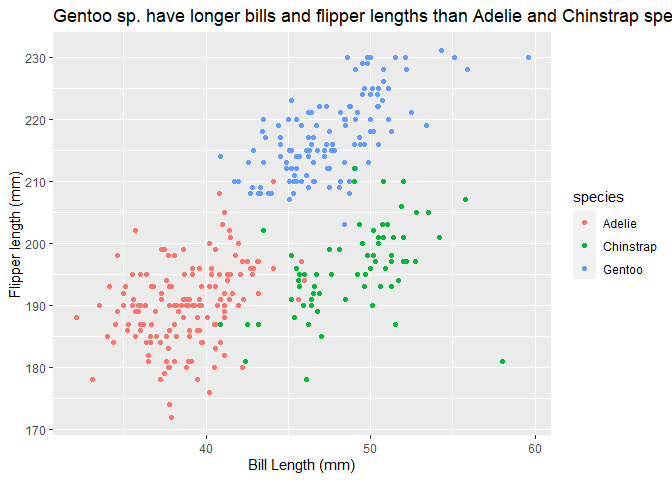
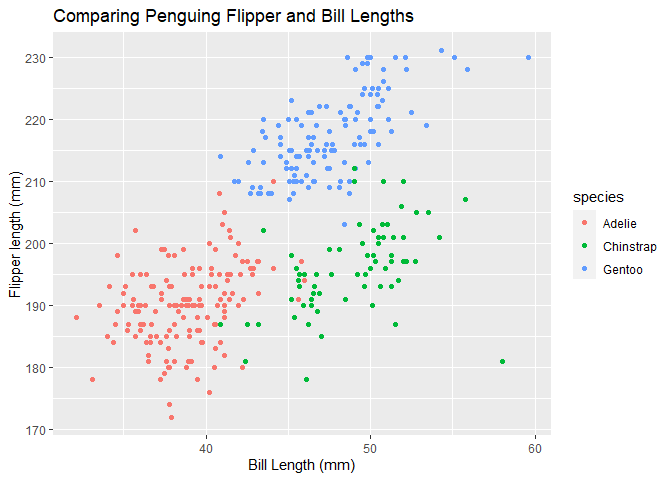
shortened title for scatterplot & added formatting and explications for each mean of the original variable. Additionally tried to coerce and explain the variables.

Changed region(s): [[0.0938, 0.0, 1.0, 0.0625]]

diff --git a/p8105_hw1_JSM2182.md b/p8105_hw1_JSM2182.md
@@ -37,7 +37,7 @@ sex, and year.
 The mean flipper length is 200.9152047 mm
 
 ``` r
-ggplot(penguins, aes(x = bill_length_mm, y = flipper_length_mm, color = species)) + geom_point() + xlab("Bill Length (mm)") + ylab("Flipper length (mm)") + ggtitle("Gentoo sp. have longer bills and flipper lengths than Adelie and Chinstrap species")
+ggplot(penguins, aes(x = bill_length_mm, y = flipper_length_mm, color = species)) + geom_point() + xlab("Bill Length (mm)") + ylab("Flipper length (mm)") + ggtitle("Comparing Penguing Flipper and Bill Lengths")
 ```
 
 ![](p8105_hw1_JSM2182_files/figure-gfm/penguins_scatterplot-1.png)<!-- -->
@@ -46,6 +46,13 @@ ggplot(penguins, aes(x = bill_length_mm, y = flipper_length_mm, color = species)
 ggsave("BillxFlipperLengthxSpecies.PDF", height = 4, width = 10)
 ```
 
+On average, Gentoo sp. have longer bills and flipper lengths than Adelie
+and Chinstrap species. Adelie species have shorter bill lengths and
+smaller flipper lengths on average relative to the Chinstrap species
+(though outliers are present and the average difference does not appear
+large). Chinstrap have bill lengths about as long as the Gentoo species
+but shorter flipper lengths.
+
 # Problem 2
 
 ``` r
@@ -53,8 +60,8 @@ sample_df =
   tibble(
   var_rand = rnorm(n = 10,mean = 0),
   var_logic = var_rand > 0, 
-  var_char = c("a", "b","c","d", "a", "b", "b", "c", "d","a"),
-  var_factor = factor(var_char, levels = c("a","b","c", "d"), ordered = TRUE)
+  var_char = c("a", "b","c","a", "a", "b", "b", "c", "b","a"),
+  var_factor = factor(var_char, levels = c("a","b","c"), ordered = TRUE)
   )
 ```
 
@@ -65,31 +72,47 @@ print(sample_df)
     ## # A tibble: 10 × 4
     ##    var_rand var_logic var_char var_factor
     ##       <dbl> <lgl>     <chr>    <ord>     
-    ##  1   0.157  TRUE      a        a         
-    ##  2  -1.52   FALSE     b        b         
-    ##  3  -2.18   FALSE     c        c         
-    ##  4  -0.0594 FALSE     d        d         
-    ##  5   1.93   TRUE      a        a         
-    ##  6  -1.66   FALSE     b        b         
-    ##  7   0.759  TRUE      b        b         
-    ##  8  -0.503  FALSE     c        c         
-    ##  9   0.598  TRUE      d        d         
-    ## 10  -0.400  FALSE     a        a
+    ##  1    1.78  TRUE      a        a         
+    ##  2   -1.06  FALSE     b        b         
+    ##  3    0.517 TRUE      c        c         
+    ##  4    0.622 TRUE      a        a         
+    ##  5    1.58  TRUE      a        a         
+    ##  6    0.725 TRUE      b        b         
+    ##  7   -0.537 FALSE     b        b         
+    ##  8   -0.398 FALSE     c        c         
+    ##  9    0.466 TRUE      b        b         
+    ## 10   -0.920 FALSE     a        a
 
-Above is a dataframe comprised of: - a random sample of size 10 from a
-standard Normal distribution - a logical vector indicating whether
-elements of the sample are greater than 0 - a character vector of length
-10 - a factor vector of length 10, with 3 different factor “levels”
+Above is a dataframe comprised of:
+
+-   a random sample of size 10 from a standard Normal distribution
+-   a logical vector indicating whether elements of the sample are
+    greater than 0
+-   a character vector of length 10
+-   a factor vector of length 10, with 3 different factor “levels”
 
 ``` r
-var_rand_pull <- sample_df %>% pull(var_rand) #is it best practice to name a pulled variable or simply reuse? It's okay to reuse but could rename something else
-var_logic_pull <- sample_df %>% pull(var_logic) #why is this providing an answer?
+var_rand_pull <- sample_df %>% pull(var_rand) 
+var_logic_pull <- sample_df %>% pull(var_logic)
 var_char_pull <- sample_df %>% pull(var_char)
 var_factor_pull <- sample_df %>%  pull(var_factor)
 ```
 
-The mean of var_rand is -0.288397 The mean of var_logic is 0.4 The mean
-of var_char is NA The mean of var_factor is NA
+*What happens when you take the mean of each variable?*
+
+-   The mean of var_rand is 0.2778769
+    -   It makes sense that there is a mean as the variable is a numeric
+        one. The mean is expected to also be close to 0.
+-   The mean of var_logic is 0.6
+    -   It makes sense that there is an available mean as R interprets
+        “True” as 1 and “False” as 0, indicating that with a mean of
+        0.3, there are more instances of “False”.
+-   The mean of var_char is NA.
+    -   It makes sense that there is no available mean as the variable
+        is that of a character and as such it is not applicable.
+-   The mean of var_factor is NA
+    -   It makes sense that there is no available mean as the variables
+        are made up of levels but even so it is not numeric.
 
 ``` r
 var_char_num <- as.numeric(var_char_pull)
@@ -99,13 +122,15 @@ var_char_num <- as.numeric(var_char_pull)
 
 ``` r
 var_factor_num <- as.numeric(var_factor_pull)
-mean(var_factor_num)
 ```
 
-    ## [1] 2.3
+*What happens when you try to take the means of a character and factor
+variable, respectively, by setting them to numeric variables?*
 
-``` r
-mean(var_char_num)
-```
+The mean of a factor variable by coercion to a numeric variable is 1.8.
+\* Note: R has interpreted the levels as 1, 2, 3 and has now taken the
+average of each instance.
 
-    ## [1] NA
+The mean of a character variable by coercion to a numeric variable is NA
+\* Note: R does not have a basis for ascribing a numeric value to the
+characters, which is why you still yield an NA.
